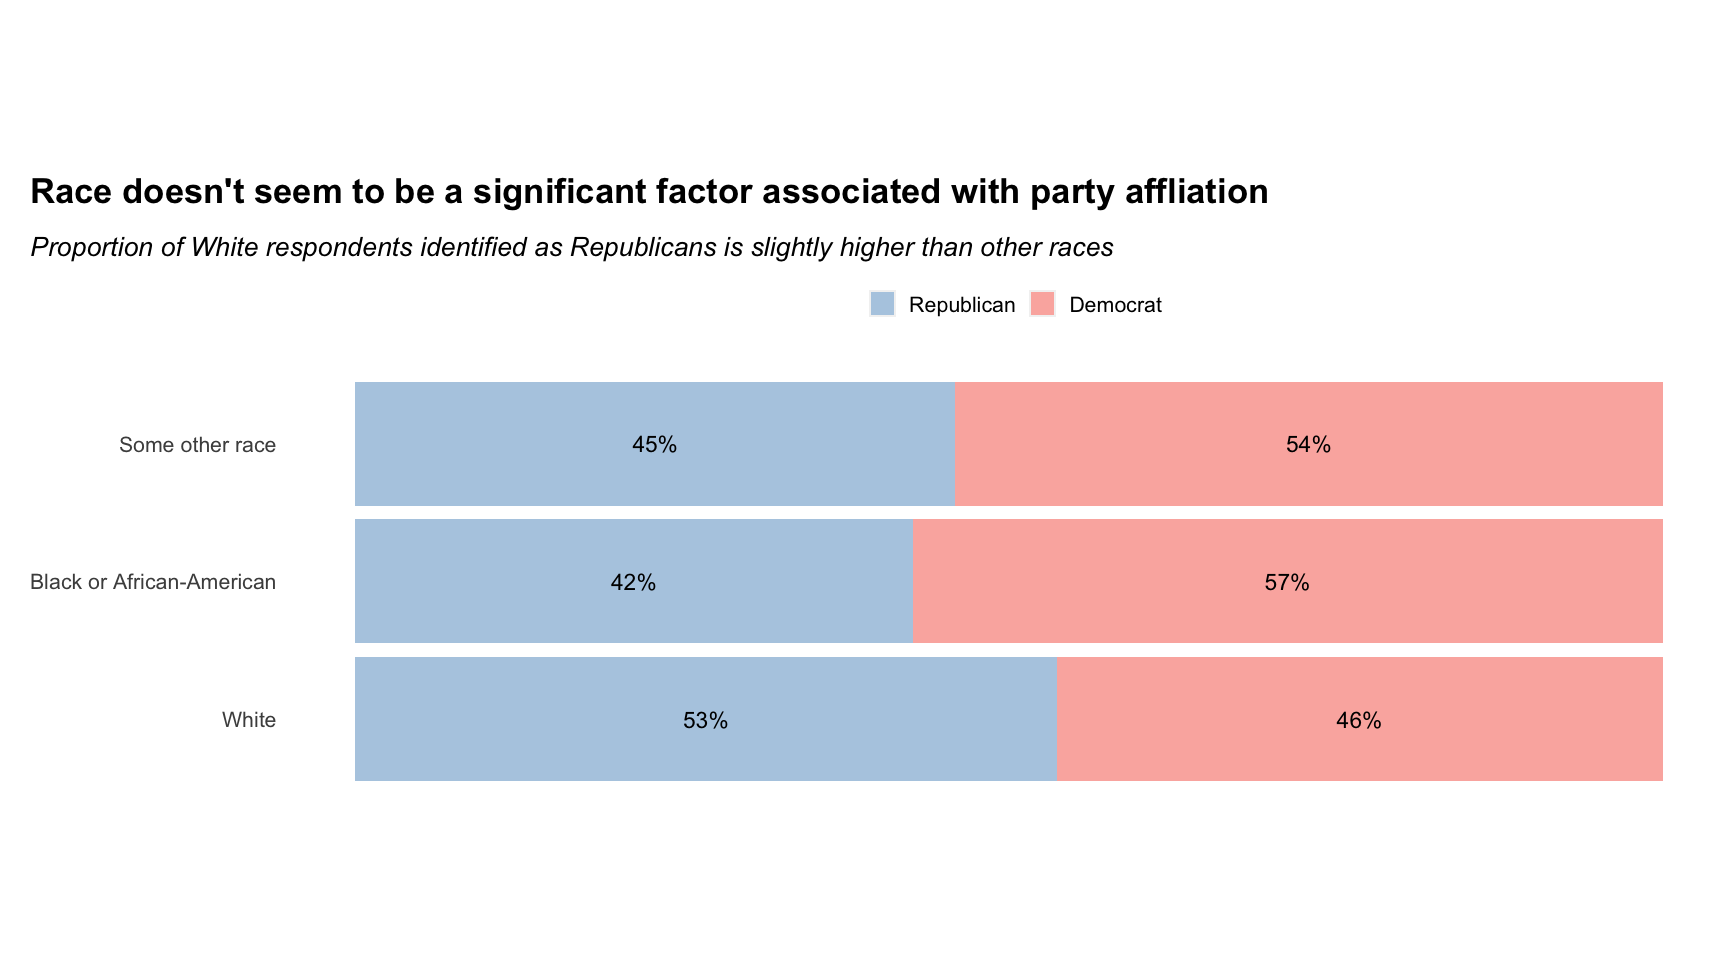
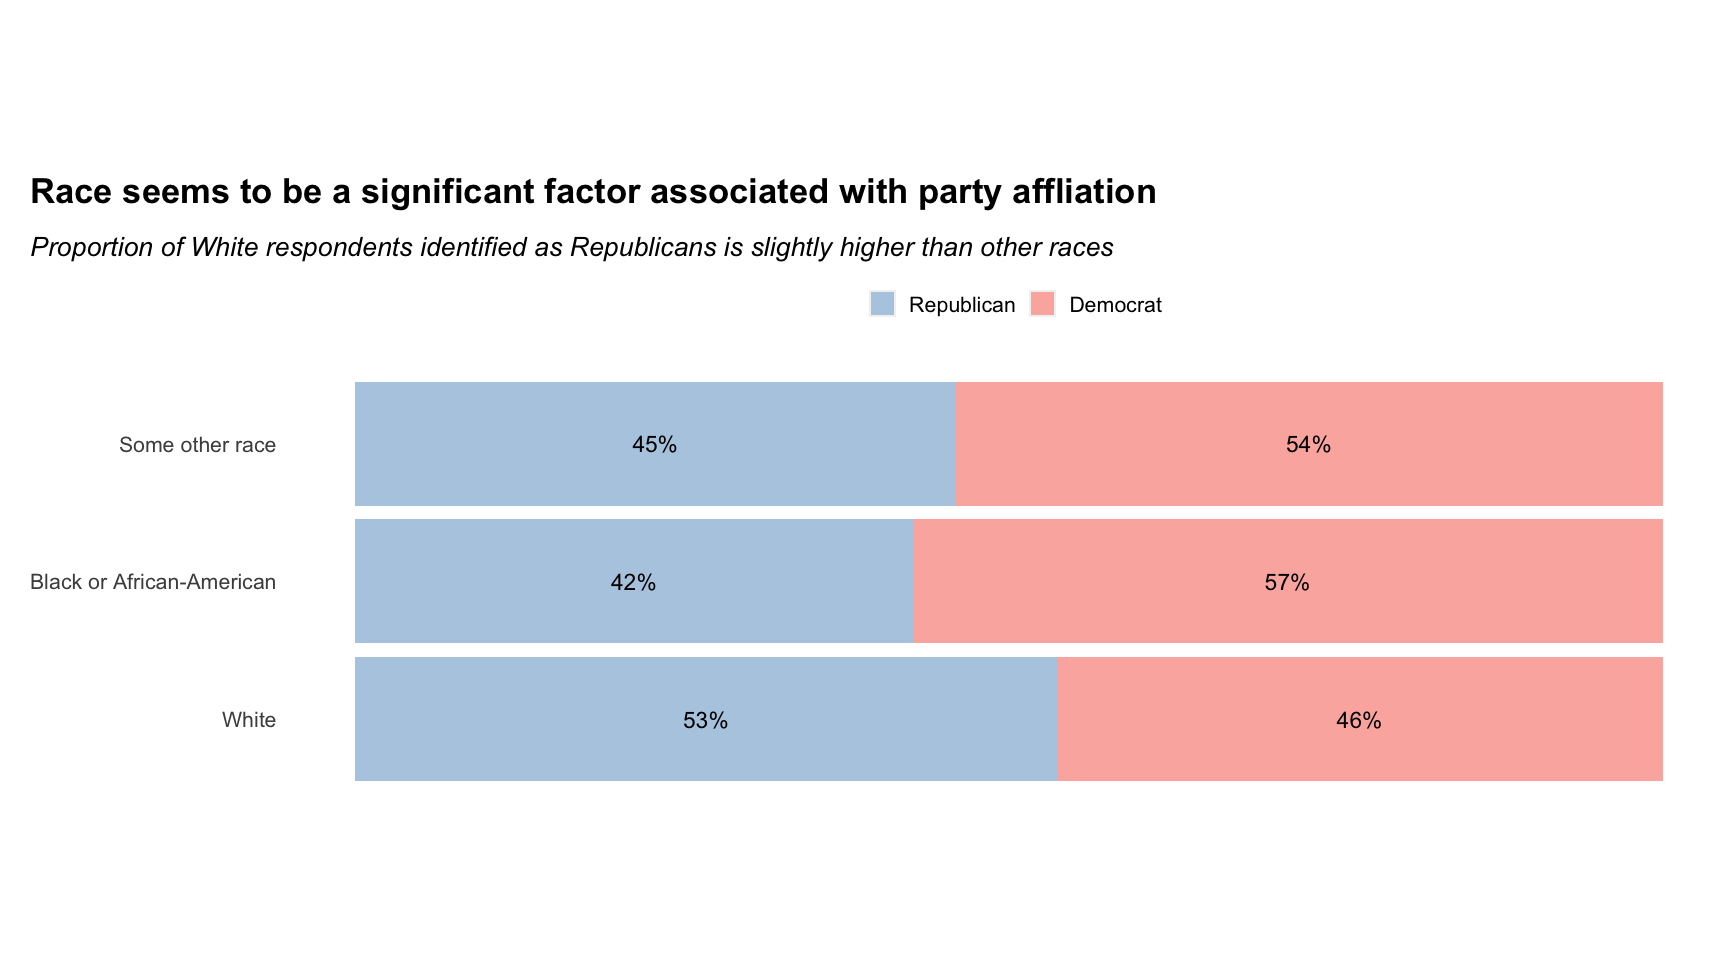
update chapter 4 and 5

Changed region(s): [[0.0625, 0.1875, 0.75, 0.2188]]

diff --git a/docs/results.html b/docs/results.html
@@ -24,7 +24,7 @@
 <meta name="author" content="Jingyi An, Tingyi Lu" />
 
 
-<meta name="date" content="2020-12-16" />
+<meta name="date" content="2020-12-17" />
 
   <meta name="viewport" content="width=device-width, initial-scale=1" />
   <meta name="apple-mobile-web-app-capable" content="yes" />
@@ -130,11 +130,12 @@ It’s not surprising to see that a majority democrats and republicans disagree 
 </div>
 <div id="political-affliations-sex-race-and-education" class="section level2">
 <h2><span class="header-section-number">5.2</span> Political Affliations, Sex, Race, and Education</h2>
-<p>In this section, we’ll take a look at whether there’s any association between political affiliation of a respondent and their sex/race/education. Each of the factors will be examined through percent stacked bar chart to compare difference across the groups.</p>
+<p>In this section, we’ll take a look at whether there’s any association between political affiliation of a respondent and their sex/race/education. Each of the factors will be examined through percent stacked bar chart to compare difference across the groups. For the purpose of our analysis, we removed respondents who did not exhibit a bipolar political interest; in other words, we only included respondents who identified as either a <strong>republican</strong> or <strong>democrat</strong>. In addition, we’ll discuss the limitation of our analysis at the end of this section.</p>
 <p><img src="finalproj_files/figure-html/select%20ISEX,%20IRACE1,%20EDUC,%20INCOME-1.png" width="864" />
 The first factor we investigate is Sex (not gender). Among respondents that give a firm response on this question (either male or female), we didn’t see a significant difference in the proportion of male and female respondents identified with each party. The percentage of female respondents in this survey identified as democrats is roughly the same as that of male respondents. Based on the data available from this survey, we can only conclude here that sex doesn’t seem to be a factor associated with party identification.</p>
 <p><img src="finalproj_files/figure-html/race%20and%20party-1.png" width="864" />
-<img src="finalproj_files/figure-html/unnamed-chunk-5-1.png" width="864" /></p>
+The graph above shows the proportion of people of each race category identified with a democrat or republican. We can observe that, more than half of the white respondents identified themselves as a republican, while less than half of black respondents or respondents of some other race identified themselves as a republican. The observable disparity may indicate some association between race and party identification, and being white may have some positive association with being republican.</p>
+<p><img src="finalproj_files/figure-html/education-1.png" width="864" /></p>
 <pre><code>## # A tibble: 4 x 2
 ##   Race                       Freq
 ##   &lt;fct&gt;                     &lt;int&gt;

diff --git a/docs/missing-values.html b/docs/missing-values.html
@@ -24,7 +24,7 @@
 <meta name="author" content="Jingyi An, Tingyi Lu" />
 
 
-<meta name="date" content="2020-11-23" />
+<meta name="date" content="2020-12-17" />
 
   <meta name="viewport" content="width=device-width, initial-scale=1" />
   <meta name="apple-mobile-web-app-capable" content="yes" />
@@ -76,7 +76,13 @@
 <li class="chapter" data-level="2" data-path="data-sources.html"><a href="data-sources.html"><i class="fa fa-check"></i><b>2</b> Data sources</a></li>
 <li class="chapter" data-level="3" data-path="data-transformation.html"><a href="data-transformation.html"><i class="fa fa-check"></i><b>3</b> Data transformation</a></li>
 <li class="chapter" data-level="4" data-path="missing-values.html"><a href="missing-values.html"><i class="fa fa-check"></i><b>4</b> Missing values</a></li>
-<li class="chapter" data-level="5" data-path="results.html"><a href="results.html"><i class="fa fa-check"></i><b>5</b> Results</a></li>
+<li class="chapter" data-level="5" data-path="results.html"><a href="results.html"><i class="fa fa-check"></i><b>5</b> Results</a><ul>
+<li class="chapter" data-level="5.1" data-path="results.html"><a href="results.html#opinions-of-people-identified-with-different-parties-on-different-matters"><i class="fa fa-check"></i><b>5.1</b> Opinions of people identified with different parties on different matters</a><ul>
+<li class="chapter" data-level="5.1.1" data-path="results.html"><a href="results.html#conflicts-between-different-social-groups-in-america"><i class="fa fa-check"></i><b>5.1.1</b> <em>Conflicts between different social groups in America</em></a></li>
+<li class="chapter" data-level="5.1.2" data-path="results.html"><a href="results.html#other-controversial-social-topics"><i class="fa fa-check"></i><b>5.1.2</b> <em>Other Controversial Social Topics</em></a></li>
+</ul></li>
+<li class="chapter" data-level="5.2" data-path="results.html"><a href="results.html#political-affliations-sex-race-and-education"><i class="fa fa-check"></i><b>5.2</b> Political Affliations, Sex, Race, and Education</a></li>
+</ul></li>
 <li class="chapter" data-level="6" data-path="interactive-component.html"><a href="interactive-component.html"><i class="fa fa-check"></i><b>6</b> Interactive component</a></li>
 <li class="chapter" data-level="7" data-path="conclusion.html"><a href="conclusion.html"><i class="fa fa-check"></i><b>7</b> Conclusion</a></li>
 <li class="divider"></li>
